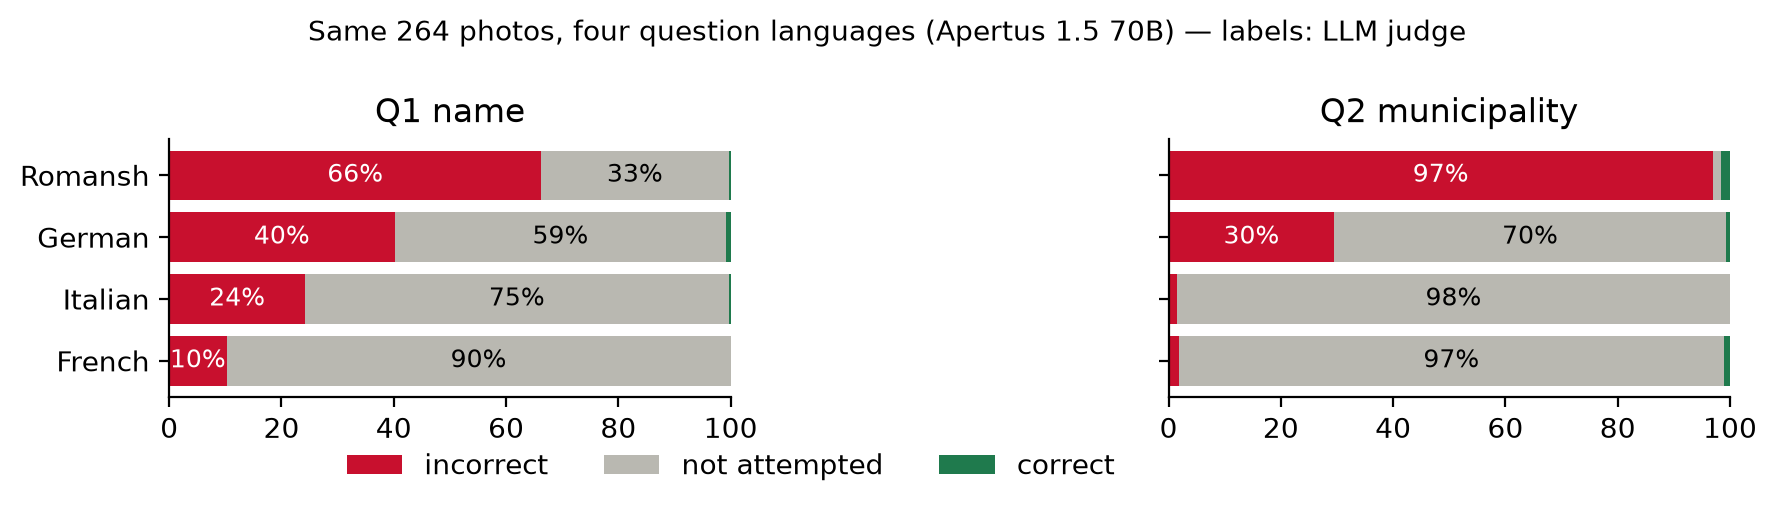
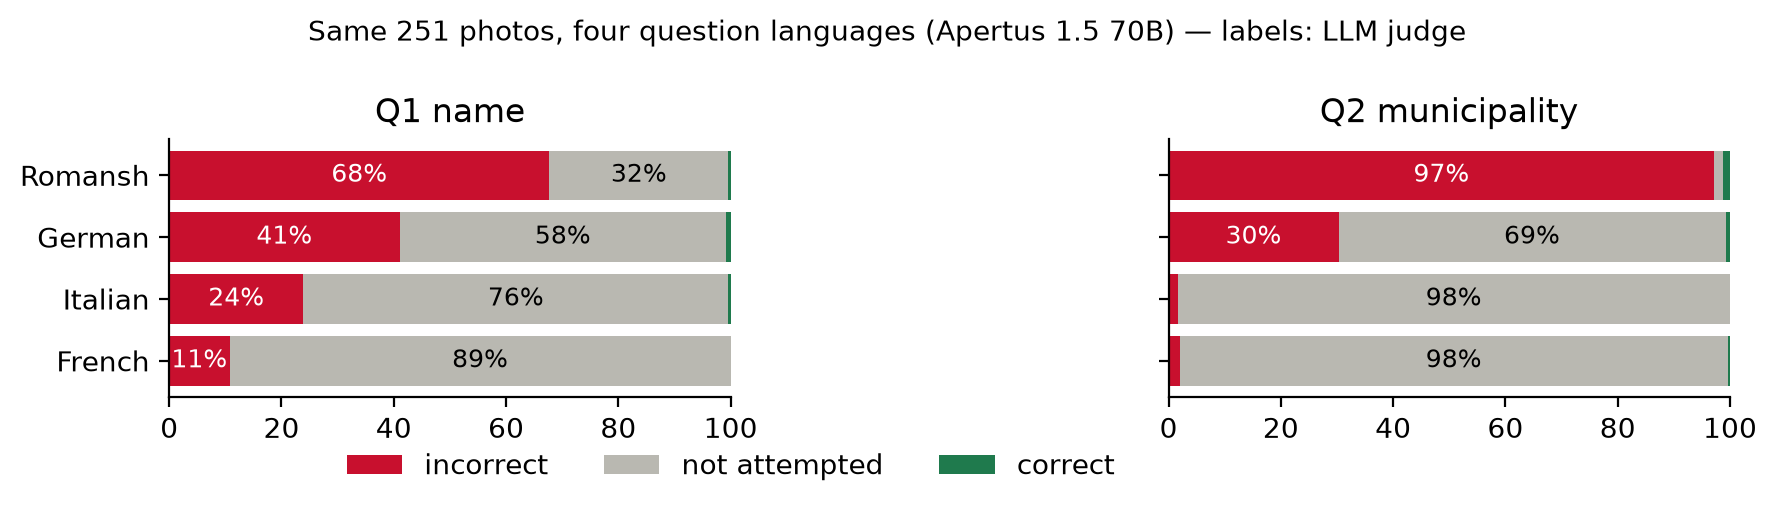
New photo items run and judged (70B + 8B, 766 each); AI cross-check of the audit sample scored separately (not a human audit); audit items of dropped landmarks skipped and counted; descriptive photo_alt/lowinfo contrasts; card derives screening/audit provenance; figures regenerated; 253 tests

diff --git a/track_1b/src/landmarks_eval/build/card.py b/track_1b/src/landmarks_eval/build/card.py
@@ -53,7 +53,12 @@ def build_card(ds: Path, extra: dict | None = None) -> str:
                  "judgements.jsonl": "code-grader label and rule" + (", LLM-judge label" if judge_done else "") + ", final label",
                  "scores.json": "all scores recomputed by `landmarks-eval score`",
                  "stability.json": "temperature-0 stability check", "stability_responses.jsonl": "the re-asked answers",
-                 "human_audit.jsonl": "blind human labels (A1-A3)", "judge_dev_set.jsonl": "judge tuning items and labels",
+                 "human_audit.jsonl": "blind human labels (annotator A1)",
+                 "human_audit_repeat.jsonl": "the annotator's second labels of the hidden repeat items (self-consistency)",
+                 "audit_sample.json": "the seeded, stratified audit sample (item ids, strata, hidden repeats)",
+                 "ai_crosscheck_audit.jsonl": "the audit sample graded by a second AI system: a cross-check, not a human audit",
+                 "disagreement_adjudication.jsonl": "AI-assisted re-reading of every judge-vs-code disagreement (sensitivity analysis)",
+                 "judge_dev_set.jsonl": "judge tuning items and labels", "judge_dev_eval.json": "the frozen judge on its dev set",
                  "glosses.jsonl": "English machine glosses of answers (annotation aid)"}
     responses_block = "\n".join(
         f"- `responses/{name}/`:\n" + "\n".join(f"  - `{f}`: {file_desc.get(f, '')}".rstrip(": ") for f in fs
@@ -63,11 +68,11 @@ def build_card(ds: Path, extra: dict | None = None) -> str:
                  "excluded_landmarks.jsonl": "answer keys of landmarks removed in the photo screening",
                  "removed_place_aliases.jsonl": "place labels removed from the answer keys (district, region or former municipality)",
                  "gazetteer.json": "Swiss cantons, current and former municipalities and countries (location analysis)",
-                 "review.json": "photo-screening decisions (team, joint)"}
+                 "review.json": "photo-screening summary (protocol, counts, dropped landmarks and reasons)"}
     meta_block = "\n".join(f"- `metadata/{f}`: {d}" for f, d in meta_desc.items() if (ds / "metadata" / f).exists())
     arm_desc = {"photo_main": "Wikidata main photo.",
                 "text_only": "the object's name is given; the question asks where it is or when it was built.",
-                "photo_alt": "a second, human-accepted view.",
+                "photo_alt": "a second view of the same object, accepted in the photo screening.",
                 "trap_premise": "the question falsely states the town of a real look-alike.",
                 "trap_lowinfo": "a photo too generic to identify; abstaining is correct."}
     present_arms = {c["arm"] for c in cases}
@@ -80,18 +85,39 @@ def build_card(ds: Path, extra: dict | None = None) -> str:
         if judge_done else
         "  - Every model answer was graded by a deterministic code grader (rules in the repository, each post-run change "
         "documented in the CHANGELOG). LLM-judge labels are not part of this version; final label = code-grader label.")
+    ai_check = _load(ref / "ai_crosscheck_audit.jsonl") if (ref / "ai_crosscheck_audit.jsonl").exists() else []
+    repeats = _load(ref / "human_audit_repeat.jsonl") if (ref / "human_audit_repeat.jsonl").exists() else []
+    ai_line = (f"\n- **AI cross-check (not a human audit):** a second AI system "
+               f"({', '.join(sorted({a['annotator_id'] for a in ai_check}))}) graded the same sample "
+               f"({sum(1 for a in ai_check if a.get('label'))} of {len(ai_check)} items; the rest were left unscored as "
+               "uncertain); its agreement with the judge and the code grader is in `scores.json`." if ai_check else "")
     if audit:
         n_items = len({a["item_id"] for a in audit})
-        audit_block = (f"- **Human audit:** {n_items} answers (a seeded, stratified random sample) were labelled blind by "
-                       f"3 team members following `docs/annotation_guidelines.md`; "
-                       f"{sum(1 for i in {a['item_id'] for a in audit if a['in_overlap']})} items were labelled by all three.\n"
-                       "- **Agreement:** judge-human, code-human and inter-annotator agreement (Cohen's and Fleiss' kappa) "
-                       "are in `scores.json` and the technical report.")
-        annot_details = ("Three student members of Team Red Pandas (pseudonyms A1-A3), French and English speakers."
+        audit_block = (f"- **Human audit:** {n_items} answers of a seeded, stratified random sample were labelled blind by "
+                       "one annotator (A1) following `docs/annotation_guidelines.md`"
+                       + (f"; {len(repeats)} items were shown a second time, unannounced, to measure self-consistency"
+                          if repeats else "")
+                       + ".\n- **Agreement:** judge-human and code-human agreement (Cohen's kappa) and the annotator's "
+                       "self-consistency are in `scores.json` and the technical report." + ai_line)
+        annot_details = ("One student member of Team Red Pandas (pseudonym A1), French and English speaker."
                          + (" Non-French answers were shown with a labelled English machine gloss." if gloss else ""))
     else:
-        audit_block = "- **Human audit:** not part of this version."
-        annot_details = "The photo screening was done jointly by the team (Team Red Pandas); no individual labels are published."
+        audit_block = "- **Human audit:** not part of this version." + ai_line
+        annot_details = "No human grading labels are published in this version; *Privacy screening* says who screened the photos."
+    proto = review.get("guideline_version")
+    if proto == "v3b-ai-review":
+        screening_lines = (
+            "  - Every candidate photo was screened by an AI (Claude Opus 5.5); three further Claude instances re-checked "
+            "every photo to be shipped, and a second AI agent (Hermes) reviewed them again under the team lead's "
+            "\"if unsure, exclude\" policy.\n"
+            f"  - The team lead decided the edge cases of {review.get('stats', {}).get('landmarks_with_human_decision', 0)} "
+            "landmarks directly. No person reviewed every shipped photo.")
+    elif proto == "v3-ai-assisted":
+        screening_lines = ("  - Every candidate photo was screened by an AI (Claude Opus 5.5) and re-checked by further "
+                           "Claude instances; annotator A1 then checked every shipped photo.")
+    else:
+        screening_lines = ("  - Every shipped photo was then reviewed by the team, jointly, one decision per landmark "
+                           "(guideline v2-team).")
     stab_line = (f" Re-asking 100 items gave {stab['identical_text_rate']:.0%} identical text and "
                  f"{stab['same_code_label_rate']:.0%} identical labels." if stab else "")
     yaml_head = """---
@@ -228,9 +254,9 @@ No person is a data subject: photos showing recognisable people were excluded.
   - It also scanned all answer keys for hazards; the fixes are documented in the repository CHANGELOG.
 - **Privacy screening:**
   - An OpenCV face detector pre-flagged {sum(i['faces_detected'] > 0 for i in imgs)} shipped photos.
-  - Every shipped photo was then reviewed by the team, jointly, one decision per landmark (guideline v2-team).
+{screening_lines}
     Excluded photos and unpicked candidate views are not shipped.
-  - Landmarks dropped in the screening: {len(review.get('dropped_landmarks', {}))} (main photo excluded or not showing the landmark); their answers are kept in `metadata/excluded_items.jsonl`.
+  - Landmarks dropped in the screening: {len(review.get('dropped_landmarks', {}))} (main photo excluded for privacy, not showing the landmark, or excluded because that was unclear; reasons in `metadata/review.json`); their answers are kept in `metadata/excluded_items.jsonl`.
 {goldqc_line}
 
 #### Data Instance Licenses

diff --git a/track_1b/src/landmarks_eval/score.py b/track_1b/src/landmarks_eval/score.py
@@ -147,12 +147,30 @@ def compute_scores(dataset: Path, results: Path, bootstrap: int = 2000) -> dict:
     both = [r for r in graded if r["code"] and r["judge"]]
     s["agreement_judge_vs_code"] = {"n": len(both), "cohen_kappa": cohen_kappa([r["code"] for r in both], [r["judge"] for r in both]),
                                     "raw_agreement": (sum(r["code"] == r["judge"] for r in both) / len(both)) if both else None}
+    from .agreement import agreement, self_consistency
+
+    def in_dataset(rows):  # sampled items whose landmark the photo screening dropped later are left out (counted)
+        kept = [r for r in rows if r["item_id"] in judg and r["item_id"] in cases]
+        return kept, len({r["item_id"] for r in rows} - {r["item_id"] for r in kept})
+
     if (results / "human_audit.jsonl").exists():
-        from .agreement import agreement, self_consistency
-        human = load_jsonl(results / "human_audit.jsonl")
+        human, gone = in_dataset(load_jsonl(results / "human_audit.jsonl"))
         s["human_audit"] = agreement(human, judg, cases)
+        s["human_audit"]["sampled_items_dropped_with_landmark"] = gone
         if (results / "human_audit_repeat.jsonl").exists():
             s["human_audit"]["self_consistency"] = self_consistency(human, load_jsonl(results / "human_audit_repeat.jsonl"))
+    if (results / "ai_crosscheck_audit.jsonl").exists():
+        # the audit sample graded by a second AI system (NOT the human audit): its agreement with the judge and code
+        rows = load_jsonl(results / "ai_crosscheck_audit.jsonl")
+        scored, gone = in_dataset([r for r in rows if r.get("label")])
+        a = agreement(scored, judg, cases)
+        s["ai_crosscheck_audit"] = {
+            "reviewer": sorted({r["annotator_id"] for r in rows}), "not_a_human_audit": True, "sampled": len(rows),
+            "left_unscored_as_uncertain": sum(1 for r in rows if not r.get("label")),
+            "sampled_items_dropped_with_landmark": gone, "items": a["items"],
+            "judge_vs_ai": a["judge_vs_human"], "code_vs_ai": a["code_vs_human"],
+            "by_lang": {k: {"n": v["n"], "judge_vs_ai": v["judge_vs_human"], "code_vs_ai": v["code_vs_human"]}
+                        for k, v in a["by_lang"].items()}}
     adj_path = results / "disagreement_adjudication.jsonl"
     if adj_path.exists():
         # sensitivity analysis (not the registered result): the judge's label replaced by the adjudicated label where
@@ -164,12 +182,38 @@ def compute_scores(dataset: Path, results: Path, bootstrap: int = 2000) -> dict:
             "replaced": sum(1 for r in graded if r["item_id"] in adj and adj[r["item_id"]] != r["label"]),
             "overall_by_arm_qtype": table(alt, lambda r: (r["arm"], r["qtype"])),
             "photo_main_by_lang_qtype": table(alt_main, lambda r: (r["lang"], r["qtype"]))}
+    # descriptive (analysis_plan.md, secondary): the same landmark, language and question on two photos
+    s["photo_alt_vs_main"] = _paired(graded, "photo_main", "photo_alt", ("name", "place", "year"))
+    s["lowinfo_vs_main_name"] = _paired(graded, "photo_main", "trap_lowinfo", ("name",))
     gz = load_gazetteer(dataset)
     if gz is not None:  # hypotheses H1b-H4 + location analysis need the gazetteer shipped with the dataset
         s["hypotheses"] = hypotheses(graded, gz, lms, cases, bootstrap=bootstrap)
         s["location_photo_main_place"] = location_analysis(
             [r for r in main if r["qtype"] == "place"], gz, lms)
     return rnd(s)
+
+
+def _paired(rows, arm_a: str, arm_b: str, qtypes: tuple) -> dict:
+    """Items of two arms paired on (landmark, language, question type): label rates on each arm and exact McNemar
+    tests on 'correct' and on 'incorrect' (descriptive; not among the registered hypotheses)."""
+    from .metrics import mcnemar
+    key = lambda r: (r["landmark_qid"], r["lang"], r["qtype"])
+    a = {key(r): r["label"] for r in rows if r["arm"] == arm_a}
+    b = {key(r): r["label"] for r in rows if r["arm"] == arm_b}
+    out = {}
+    for q in qtypes:
+        ks = sorted(k for k in set(a) & set(b) if k[2] == q)
+        if not ks:
+            continue
+        la, lb = [a[k] for k in ks], [b[k] for k in ks]
+        res = {"n_pairs": len(ks), "landmarks": len({k[0] for k in ks}), arm_a: rates(la), arm_b: rates(lb)}
+        for lab in ("correct", "incorrect"):
+            only_a = sum(x == lab and y != lab for x, y in zip(la, lb))
+            only_b = sum(y == lab and x != lab for x, y in zip(la, lb))
+            res[f"{lab}_only_{arm_a}"], res[f"{lab}_only_{arm_b}"] = only_a, only_b
+            res[f"{lab}_mcnemar_p"] = mcnemar(only_a, only_b)
+        out[q] = res
+    return out
 
 
 def _count(it):

diff --git a/track_1b/tests/test_end_to_end.py b/track_1b/tests/test_end_to_end.py
@@ -157,3 +157,28 @@ def test_parallel_judge_cache_and_dev_set(tmp_path, monkeypatch, fake_model):
     rep = judge_dev(FIXTURE, results, judge_ep, log=lambda *_: None)
     assert rep["n"] == 2 and rep["agreement_with_confirmed"] == 0.5
     assert [d["item_id"] for d in rep["disagreements"]] == ["Q102-photo_main-name-fr"]
+
+
+def test_ai_crosscheck_is_separate_and_dropped_audit_items_are_skipped(tmp_path, monkeypatch, fake_model):
+    """A second AI's grades of the audit sample are scored apart from the human audit (never merged into it), and
+    sampled items whose landmark was dropped later are left out and counted instead of crashing the scorer."""
+    _patch_photo_answers(monkeypatch, fake_model)
+    results = tmp_path / "results"
+    run_mod.run(FIXTURE, results, Endpoint(model="fake/model", base_url="http://fake", api_key="x"),
+                concurrency=1, log=lambda *_: None)
+    grade_all(FIXTURE, results, judge_ep=None, log=lambda *_: None)
+    gone = "Q999-photo_main-name-fr"   # landmark dropped by the photo screening after the sample was drawn
+    human = [{"item_id": "Q101-photo_main-name-fr", "annotator_id": "A1", "label": "correct"},
+             {"item_id": gone, "annotator_id": "A1", "label": "incorrect"}]
+    (results / "human_audit.jsonl").write_text("".join(json.dumps(r) + "\n" for r in human), encoding="utf-8")
+    ai = [{"item_id": "Q101-photo_main-name-fr", "annotator_id": "ai:other", "label": "correct"},
+          {"item_id": "Q102-photo_main-name-fr", "annotator_id": "ai:other", "label": "not_attempted"},
+          {"item_id": "Q103-photo_main-name-fr", "annotator_id": "ai:other", "label": None},
+          {"item_id": gone, "annotator_id": "ai:other", "label": "incorrect"}]
+    (results / "ai_crosscheck_audit.jsonl").write_text("".join(json.dumps(r) + "\n" for r in ai), encoding="utf-8")
+    s = compute_scores(FIXTURE, results, bootstrap=0)
+    assert s["human_audit"]["items"] == 1 and s["human_audit"]["sampled_items_dropped_with_landmark"] == 1
+    x = s["ai_crosscheck_audit"]
+    assert x["not_a_human_audit"] is True and x["reviewer"] == ["ai:other"]
+    assert (x["sampled"], x["left_unscored_as_uncertain"], x["sampled_items_dropped_with_landmark"], x["items"]) == (4, 1, 1, 2)
+    assert x["code_vs_ai"]["n"] == 2 and x["code_vs_ai"]["raw_agreement"] == 0.5   # code: Q102 incorrect vs AI NA

diff --git a/track_1b/tools/audit_online/import_ai_crosscheck.py b/track_1b/tools/audit_online/import_ai_crosscheck.py
@@ -1,0 +1,28 @@
+"""Write a second AI system's grades of the audit sample as an AI cross-check (NOT the human audit).
+
+  python import_ai_crosscheck.py <CLAUDE_FINAL_AI_HANDOFF.json> <results dir> <audit_sample.json>
+
+Writes <results>/ai_crosscheck_audit.jsonl, one row per sampled item: the AI label (null where the reviewer left
+the item unscored as uncertain), its confidence and rationale. `score` reports its agreement with the judge and
+the code grader under `ai_crosscheck_audit`, marked `not_a_human_audit`.
+"""
+import json
+import sys
+from pathlib import Path
+
+src, results, sample_path = Path(sys.argv[1]), Path(sys.argv[2]), Path(sys.argv[3])
+h = json.loads(src.read_text(encoding="utf-8"))
+assert h.get("format") == "apertus-conservative-resolution-v1", src
+sample = {s["item_id"] for s in json.loads(sample_path.read_text(encoding="utf-8"))["items"]}
+rows = []
+for g in h["resolved_grading"]:
+    assert g["item_id"] in sample, g["item_id"]
+    assert g["reviewer"].startswith("ai:"), g["reviewer"]
+    rows.append({"item_id": g["item_id"], "annotator_id": g["reviewer"], "label": g["label"],
+                 "confidence": g.get("confidence"), "disposition": g.get("disposition"),
+                 "used_translation": bool(g.get("used_translation")), "rationale": g.get("rationale")})
+assert {r["item_id"] for r in rows} == sample and len(rows) == len(sample), "the AI grades must cover the sample exactly"
+with open(results / "ai_crosscheck_audit.jsonl", "w", encoding="utf-8", newline="\n") as f:
+    for r in sorted(rows, key=lambda r: r["item_id"]):
+        f.write(json.dumps(r, ensure_ascii=False) + "\n")
+print(f"{len(rows)} rows, {sum(1 for r in rows if r['label'])} scored -> {results / 'ai_crosscheck_audit.jsonl'}")

diff --git a/track_1b/tests/test_paired_arms.py b/track_1b/tests/test_paired_arms.py
@@ -1,0 +1,24 @@
+"""Descriptive arm contrasts (photo_main vs photo_alt, photo_main vs trap_lowinfo): pairing and McNemar counts."""
+
+from landmarks_eval.score import _paired
+
+
+def _r(qid, arm, lang, qtype, label):
+    return {"landmark_qid": qid, "arm": arm, "lang": lang, "qtype": qtype, "label": label}
+
+
+def test_pairs_only_matching_landmark_language_and_question():
+    rows = [_r("Q1", "photo_main", "fr", "name", "correct"), _r("Q1", "photo_alt", "fr", "name", "not_attempted"),
+            _r("Q2", "photo_main", "fr", "name", "incorrect"), _r("Q2", "photo_alt", "fr", "name", "incorrect"),
+            _r("Q3", "photo_main", "de", "name", "not_attempted"), _r("Q3", "photo_alt", "de", "name", "incorrect"),
+            _r("Q1", "photo_main", "it", "name", "correct"),            # no alt in Italian: not paired
+            _r("Q4", "photo_alt", "fr", "name", "correct"),              # no main: not paired
+            _r("Q1", "photo_main", "fr", "place", "incorrect"), _r("Q1", "photo_alt", "fr", "place", "correct")]
+    out = _paired(rows, "photo_main", "photo_alt", ("name", "place", "year"))
+    assert set(out) == {"name", "place"}                                 # no year pairs -> no entry
+    n = out["name"]
+    assert (n["n_pairs"], n["landmarks"]) == (3, 3)
+    assert n["photo_main"]["correct"] == 1 and n["photo_alt"]["incorrect"] == 2
+    assert (n["correct_only_photo_main"], n["correct_only_photo_alt"]) == (1, 0)
+    assert (n["incorrect_only_photo_main"], n["incorrect_only_photo_alt"]) == (0, 1)
+    assert out["place"]["correct_only_photo_alt"] == 1 and 0 < out["place"]["correct_mcnemar_p"] <= 1

diff --git a/track_1b/src/landmarks_eval/build/review_merge.py b/track_1b/src/landmarks_eval/build/review_merge.py
@@ -66,6 +66,8 @@ def merge_review(work: Path, files: list[Path]) -> dict:
             raise SystemExit(f"{qid}: the decision was made on photo {d['main_id']}, but the main photo is {main['image_id']}")
         stats[f"main_{d['main']}"] += 1
         rev = list(d.get("reviewers") or reviewers)          # per landmark: who decided it
+        if "A1" in rev or "team" in rev:
+            stats["landmarks_with_human_decision"] += 1
         if d["main"] == "exclude":
             main.update(pii_decision="exclude", pii_reason=f"recognisable person or private detail ({how})",
                         pii_reviewer_ids=rev)

diff --git a/track_1b/src/landmarks_eval/figures.py b/track_1b/src/landmarks_eval/figures.py
@@ -45,7 +45,8 @@ def make_figures(scores_path: Path, out: Path) -> list[Path]:
         ax.set_xlim(0, 100)
         ax.invert_yaxis()
     axes[0].legend(loc="lower center", bbox_to_anchor=(1.0, -0.42), ncol=3, frameon=False)
-    fig.suptitle(f"Same 264 photos, four question languages (Apertus 1.5 70B) — {_grader(s)}", fontsize=10)
+    n_photos = s["photo_main_by_lang_qtype"]["fr|name"]["n"]
+    fig.suptitle(f"Same {n_photos} photos, four question languages (Apertus 1.5 70B) — {_grader(s)}", fontsize=10)
     fig.tight_layout()
     p = out / "fig1_languages.png"
     fig.savefig(p, dpi=200, bbox_inches="tight")

diff --git a/README.md b/README.md
@@ -1,7 +1,7 @@
 # Swiss Heritage Factuality — Hack Apertus 2026, Track 1B (Red Pandas)
 
 Does Apertus 1.5 recognise Switzerland's heritage landmarks? A four-language (FR/DE/IT/RM) benchmark of
-photo, text-only and trap questions about 264 landmarks of the Swiss inventory of cultural property, with a
+photo, text-only and trap questions about 251 landmarks of the Swiss inventory of cultural property, with a
 fully automated harness that grades, scores and **verifies its own outputs**.
 
 | | |
